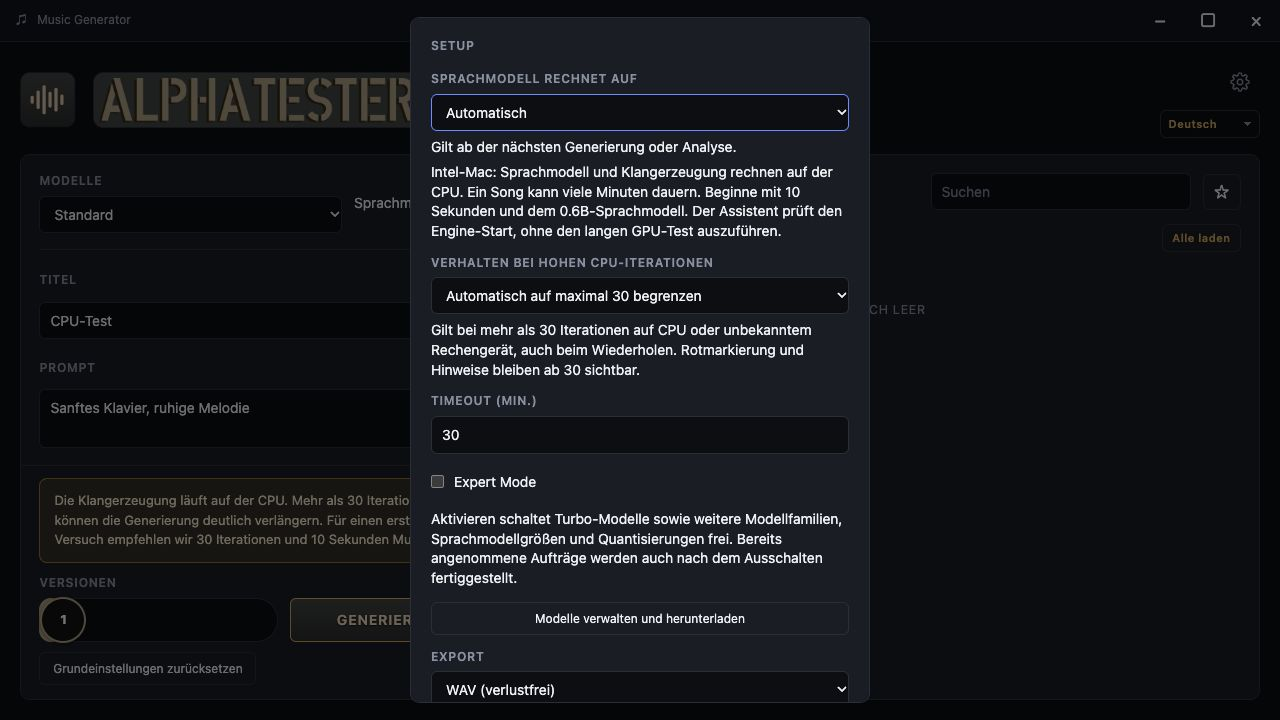
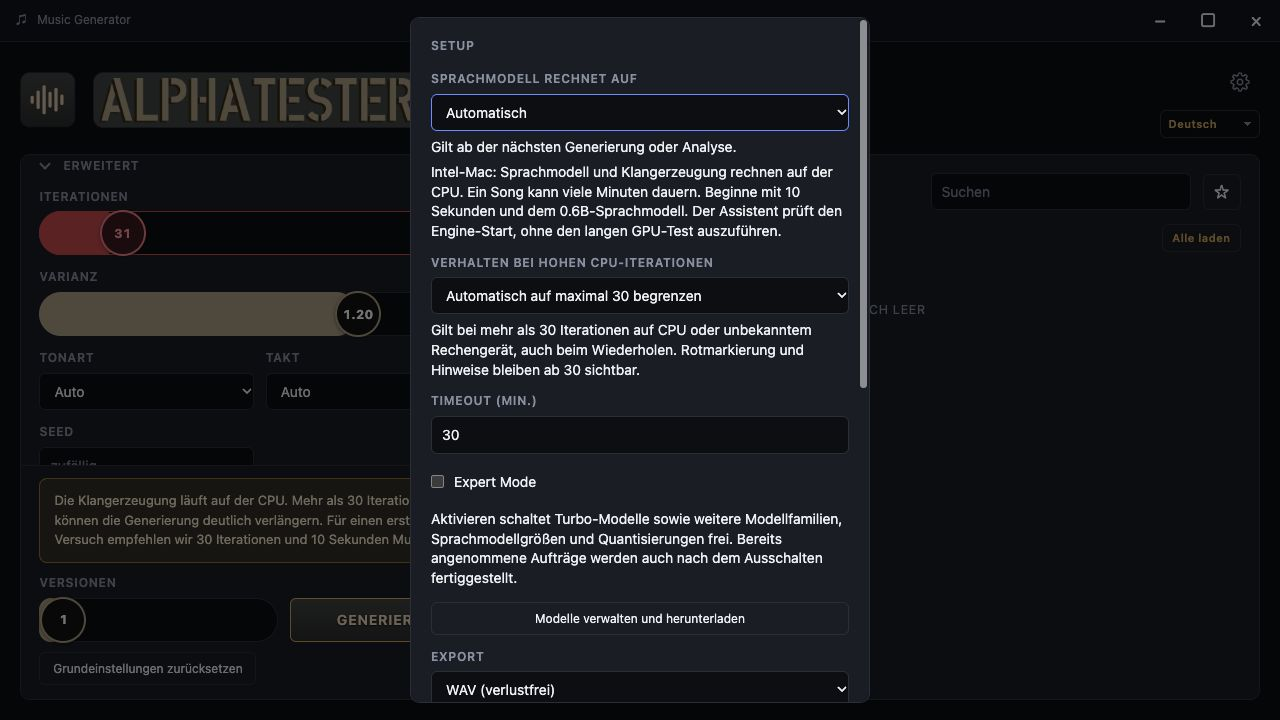
Show a single CPU iteration hint only from 30 steps

diff --git a/frontend/generation-policy.test.ts b/frontend/generation-policy.test.ts
@@ -64,12 +64,13 @@ it("shows translated warnings outside collapsed advanced settings after policy f
   await loadGenerationPolicy();
   const input = document.querySelector<HTMLInputElement>('[name="inference_steps"]')!; input.value = "31"; updateCpuWarnings();
   const warning = document.getElementById("cpuGenerationWarning")!;
+  expect(document.querySelectorAll("#genForm .cpu-warning")).toHaveLength(1);
   expect(warning.hidden).toBe(false); expect(document.getElementById("advBox")!.contains(warning)).toBe(false);
   expect(warning.textContent).toBe(cpuTranslations.de[1]);
   setLang("en"); updateCpuWarnings(); expect(warning.textContent).toBe(cpuTranslations.en[1]);
   input.value = "30"; updateCpuWarnings(); expect(warning.hidden).toBe(false);
   expect(input.closest(".slider")!.classList.contains("cpu-risk")).toBe(true);
-  expect(input.getAttribute("aria-describedby")).toBe("cpuIterationWarning");
+  expect(input.getAttribute("aria-describedby")).toBe("cpuGenerationWarning");
   input.value = "29"; updateCpuWarnings(); expect(warning.hidden).toBe(true);
   expect(input.closest(".slider")!.classList.contains("cpu-risk")).toBe(false);
   expect(input.hasAttribute("aria-describedby")).toBe(false);

diff --git a/frontend/generation-policy.ts b/frontend/generation-policy.ts
@@ -22,12 +22,10 @@ export function updateCpuWarnings(): void {
   const input = document.querySelector<HTMLInputElement>('#genForm [name="inference_steps"]');
   const visible = needsCpuWarning(policy.backend, Number(input?.value));
   input?.closest(".slider")?.classList.toggle("cpu-risk", visible);
-  if (visible) input?.setAttribute("aria-describedby", "cpuIterationWarning");
+  if (visible) input?.setAttribute("aria-describedby", "cpuGenerationWarning");
   else input?.removeAttribute("aria-describedby");
-  for (const id of ["cpuIterationWarning", "cpuGenerationWarning"]) {
-    const node = document.getElementById(id);
-    if (node) { node.hidden = !visible; const text = t(warningKey(policy.backend)); if (node.textContent !== text) node.textContent = text; }
-  }
+  const node = document.getElementById("cpuGenerationWarning");
+  if (node) { node.hidden = !visible; const text = t(warningKey(policy.backend)); if (node.textContent !== text) node.textContent = text; }
 }
 
 export type CpuChoice = "reduce" | "continue" | null;

diff --git a/frontend/index.html b/frontend/index.html
@@ -130,7 +130,6 @@
             <input name="inference_steps" type="range" min="1" max="200" step="1" value="30" aria-label="Iterationen" data-i18n-aria="iterations">
           </div>
         </div>
-        <p id="cpuIterationWarning" class="cpu-warning" role="note" hidden></p>
         <div class="field adv"><span class="lbl" title="Wie mutig das Sprachmodell den Song plant. Niedriger = vorhersehbar, höher = abwechslungsreicher, zu hoch = zerfahren (App-Standard: 1.2; Modell-Vorgabe: 0.85)." data-i18n-title="variance_tip" data-i18n="variance">Varianz</span>
           <div class="slider" data-fmt="temp">
             <div class="fill"></div><div class="knob"><span></span></div>

diff --git a/docs/pr/cpu-iterations-warning/README.md b/docs/pr/cpu-iterations-warning/README.md
@@ -17,7 +17,7 @@ not a hardware reservation or a runtime estimate.
 ## Red slider and remembered behavior
 
 At 30 steps the CPU/unknown slider fill, thumb and number turn red and the
-inline/persistent hints become visible. Below 30 both disappear; on GPU neither
+single persistent hint becomes visible. Below 30 both disappear; on GPU neither
 is shown. The confirmation starts only above 30.
 
 The unchecked-by-default “Remember this decision” checkbox persists either
